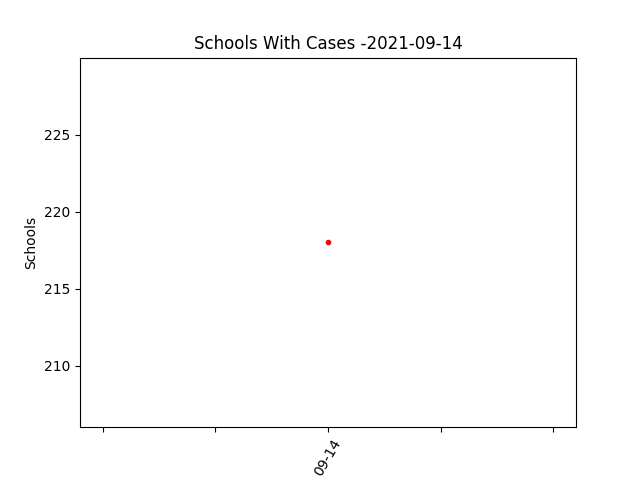
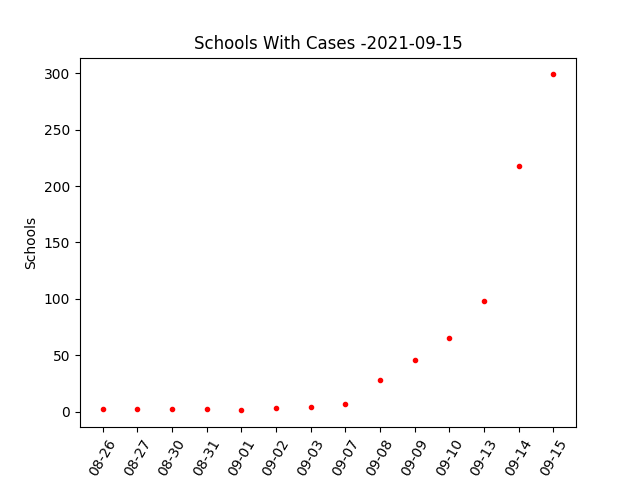
automated

diff --git a/Scripts/Covid_AnalysisPlotSchool.py b/Scripts/Covid_AnalysisPlotSchool.py
@@ -197,7 +197,7 @@ mov_avg = windows.mean()
 
 mov_avg_list = mov_avg.tolist()
 
-daysToPlot = -1
+daysToPlot = -100
 
 
 plt.plot(chartX[daysToPlot:],chartPoint[daysToPlot:],'r.',label='Students')
